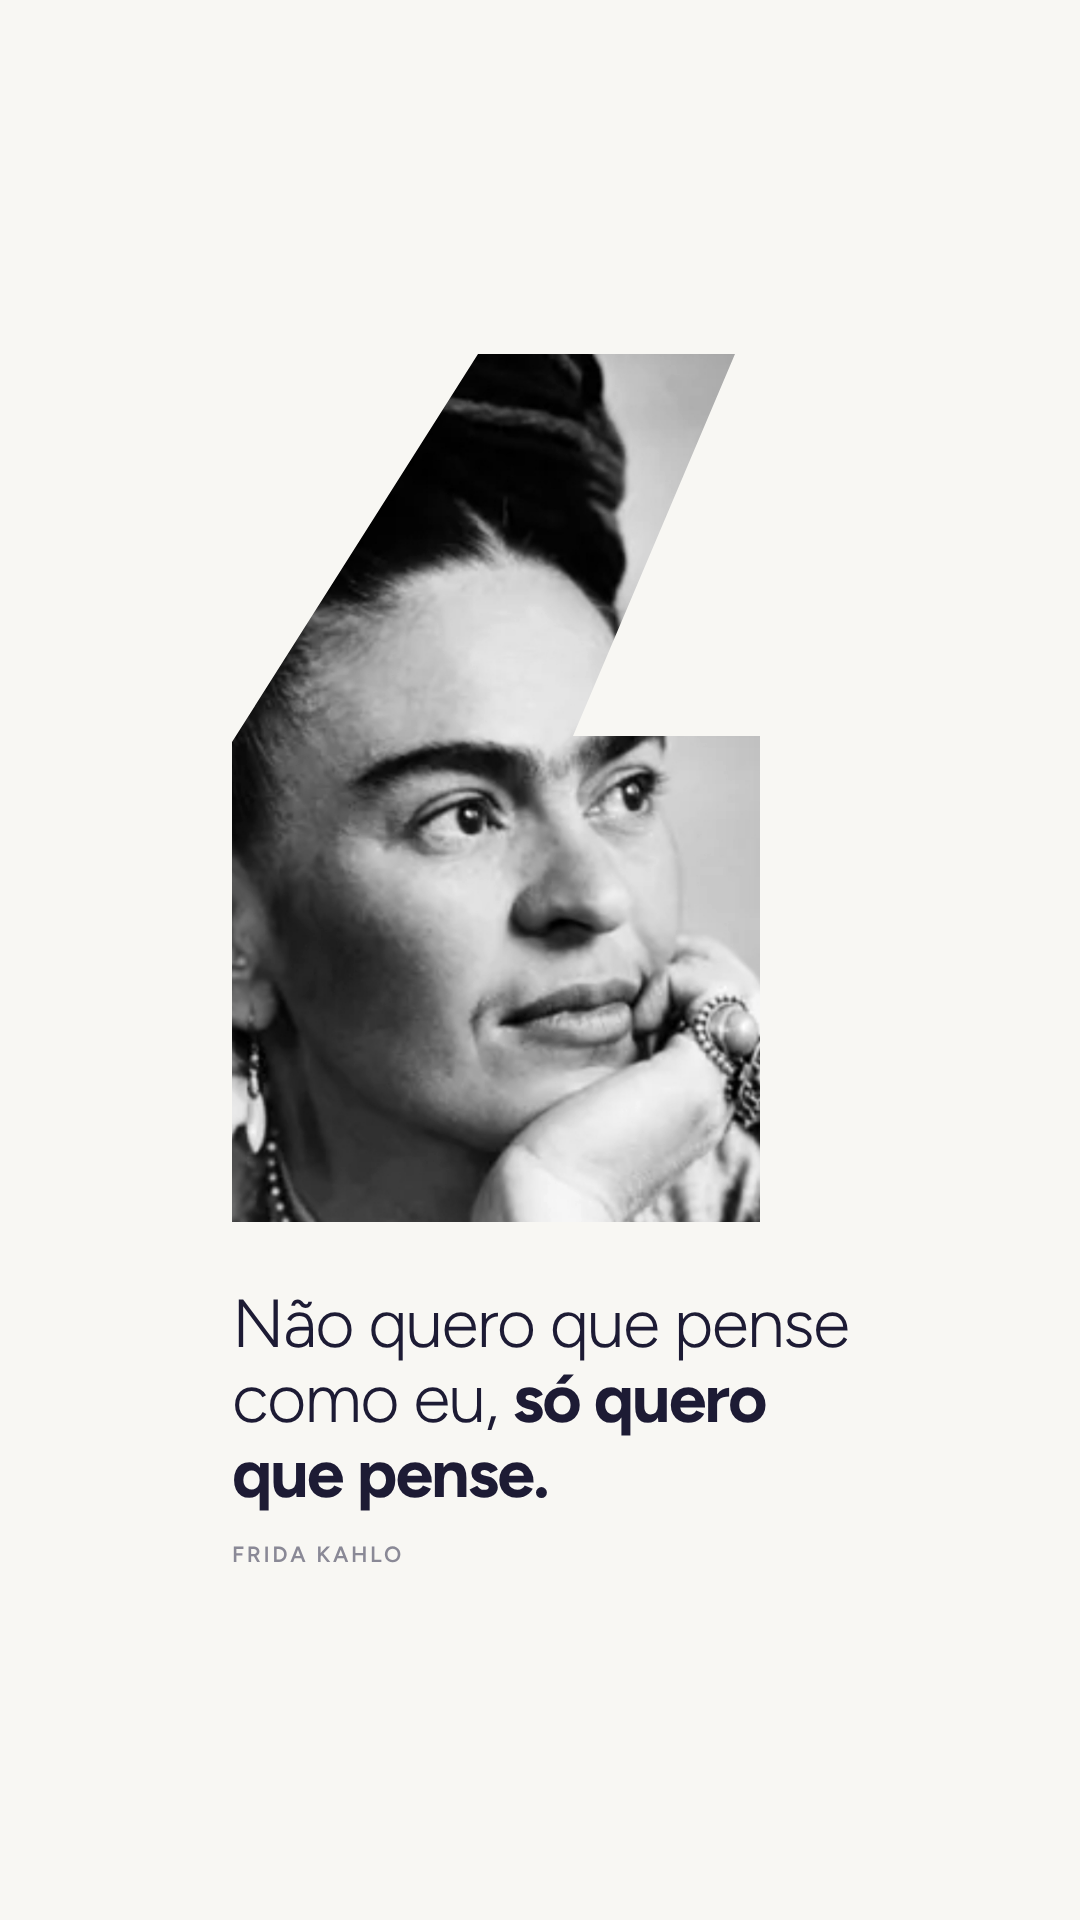
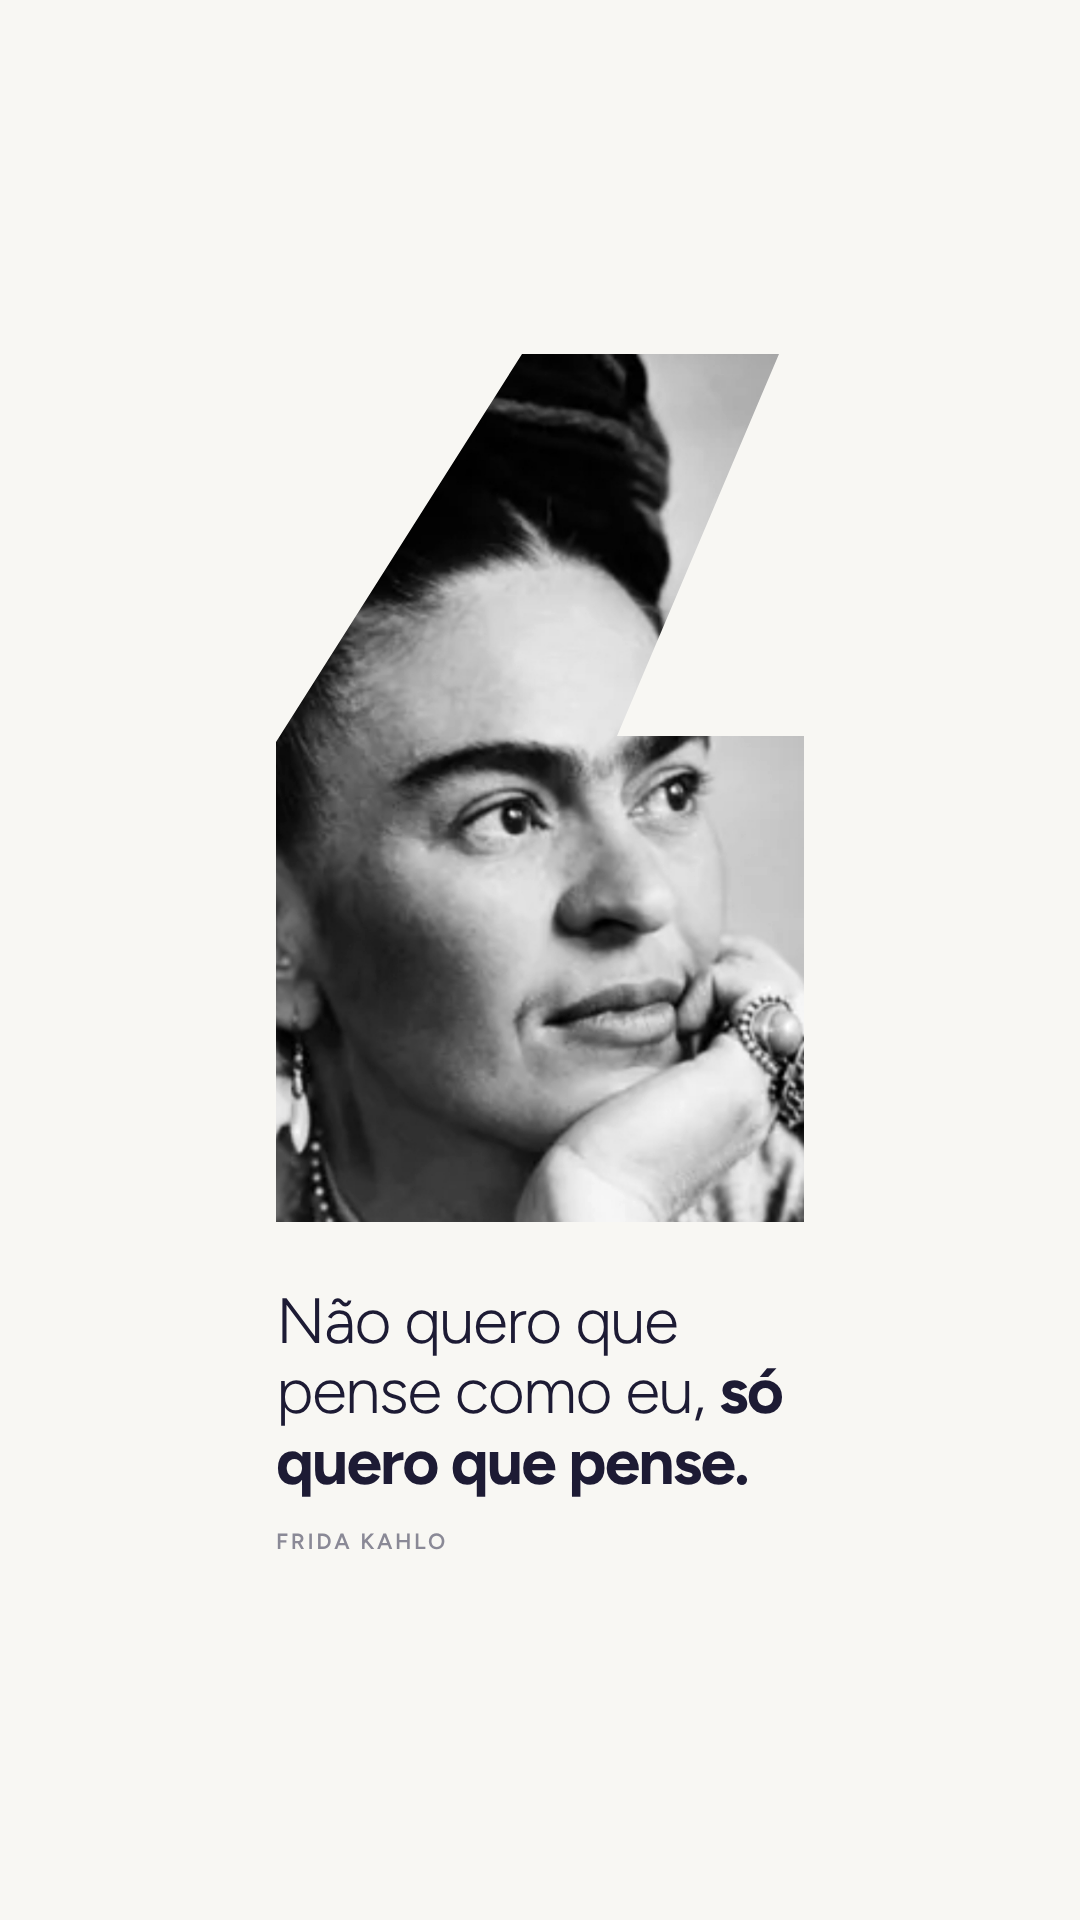
Rebreak Frida quote lines and keep text within the shape width
Claude-Session: https://claude.ai/code/session_01PxZLYp44R4EtTXSM1wnfqE

Changed region(s): [[0.2139, 0.1875, 0.7944, 0.8125]]

diff --git a/stories/frida-aspas-abaixo.html b/stories/frida-aspas-abaixo.html
@@ -9,15 +9,15 @@
   *{margin:0;padding:0;box-sizing:border-box}
   html,body{background:var(--paper)}
   /* Story 1080x1920: shape em cima, texto embaixo alinhado à esquerda do shape;
-     o conjunto (shape + frase mais longa) fica centralizado na horizontal e na vertical. */
+     a frase não passa da largura do shape (528px) e o conjunto fica centralizado na horizontal e na vertical. */
   .canvas{position:relative;width:1080px;height:1920px;background:var(--paper);overflow:hidden}
   .shape{position:absolute;left:0;top:0;width:1080px;height:1920px;
-    clip-path:polygon(478px 354px,735px 354px,573px 736px,760px 736px,760px 1222px,232px 1222px,232px 742px);
+    clip-path:polygon(522px 354px,779px 354px,617px 736px,804px 736px,804px 1222px,276px 1222px,276px 742px);
     background:#cfcfcf url(frida-foto.jpg) no-repeat;
-    background-size:763px auto;background-position:4px 250px;
+    background-size:763px auto;background-position:48px 250px;
     filter:grayscale(1) contrast(1.05)}
-  .text{position:absolute;left:232px;top:1286px;width:902px;font-family:'Figtree',sans-serif}
-  .quote{font-weight:300;font-size:68px;line-height:1.1;color:var(--ink);letter-spacing:-.025em}
+  .text{position:absolute;left:276px;top:1286px;width:528px;font-family:'Figtree',sans-serif}
+  .quote{font-weight:300;font-size:64px;line-height:1.1;white-space:nowrap;color:var(--ink);letter-spacing:-.025em}
   .quote strong{font-weight:700;letter-spacing:-.03em}
   .author{margin-top:34px;font-weight:600;font-size:22px;line-height:1;letter-spacing:.12em;text-transform:uppercase;color:var(--muted)}
 </style>
@@ -26,7 +26,7 @@
 <div class="canvas">
   <div class="shape"></div>
   <div class="text">
-    <p class="quote">Não quero que pense<br>como eu, <strong>só quero<br>que pense.</strong></p>
+    <p class="quote">Não quero que<br>pense como eu, <strong>só<br>quero que pense.</strong></p>
     <p class="author">Frida Kahlo</p>
   </div>
 </div>
